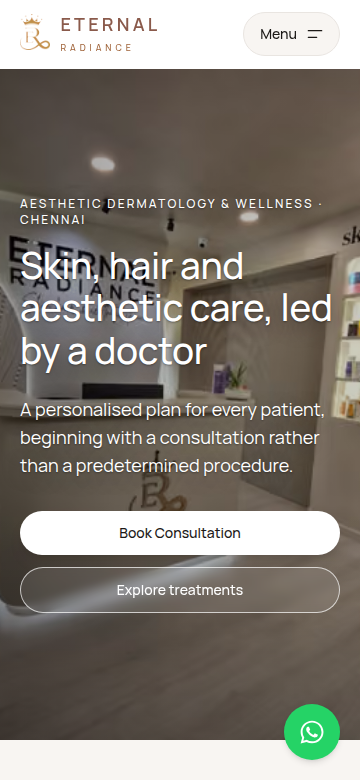
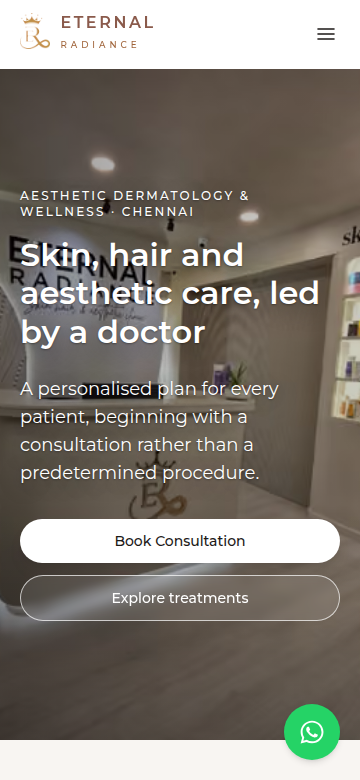
Match brand font (Montserrat), fix word spacing; clean white mobile menu
Claude-Session: https://claude.ai/code/session_01G1VHGhVw9CxkDhhvcLwAUR

diff --git a/components/Header.tsx b/components/Header.tsx
@@ -78,10 +78,9 @@ export default function Header({ phone, phoneTel, categories, showPhone, hideHre
         <div className="flex shrink-0 items-center gap-3">
           {showPhone && <a href={`tel:${phoneTel}`} className="hidden text-sm text-ink hover:text-primary xl:block"><span className="text-muted">Call us at </span>{phone}</a>}
           <Link href="/community" className="btn btn-primary hidden !min-h-[2.5rem] !px-5 sm:inline-flex">Join Community</Link>
-          <button ref={btn} onClick={() => setOpen(true)} aria-expanded={open} aria-controls="site-menu"
-            className="inline-flex h-11 items-center gap-2 rounded-full border border-line bg-surface pl-4 pr-3.5 text-sm font-medium text-ink transition-colors hover:border-ink lg:hidden">
-            <span className="max-[339px]:sr-only">Menu</span>
-            <svg viewBox="0 0 24 24" className="h-5 w-5" fill="none" stroke="currentColor" strokeWidth="1.6" strokeLinecap="round" aria-hidden><path d="M4 8h16M4 16h10" /></svg>
+          <button ref={btn} onClick={() => setOpen(true)} aria-expanded={open} aria-controls="site-menu" aria-label="Open menu"
+            className="-mr-2 flex h-11 w-11 items-center justify-center text-ink lg:hidden">
+            <svg viewBox="0 0 24 24" className="h-6 w-6" fill="none" stroke="currentColor" strokeWidth="1.6" strokeLinecap="round" aria-hidden><path d="M4 7h16M4 12h16M4 17h16" /></svg>
           </button>
         </div>
       </div>
@@ -89,34 +88,33 @@ export default function Header({ phone, phoneTel, categories, showPhone, hideHre
 
     {/* Rendered outside <header>: its backdrop-blur would otherwise become the containing block for this fixed overlay. */}
     <div id="site-menu" role="dialog" aria-modal="true" aria-label="Site menu" aria-hidden={!open}
-        className={`fixed inset-0 z-50 overflow-y-auto bg-paper transition-opacity duration-200 lg:hidden ${open ? "opacity-100" : "pointer-events-none opacity-0"}`}
-        {...(!open ? { inert: true } : {})}>
-        <div className="container-x flex h-[4.25rem] items-center justify-between gap-3">
-          <Wordmark />
-          <button onClick={() => { setOpen(false); btn.current?.focus(); }} className="inline-flex h-11 items-center gap-2 rounded-full border border-line bg-surface pl-4 pr-3.5 text-sm font-medium">
-            <span className="max-[339px]:sr-only">Close</span>
-            <svg viewBox="0 0 24 24" className="h-5 w-5" fill="none" stroke="currentColor" strokeWidth="1.6" strokeLinecap="round" aria-hidden><path d="M6 6l12 12M18 6L6 18" /></svg>
-          </button>
-        </div>
-        <nav aria-label="Mobile" className="container-x pb-12 pt-4">
-          <ul className="space-y-2">
-            {nav.map((n) => (
-              <li key={n.href}>
-                <Link href={n.href} className={`flex min-h-[3.25rem] items-center justify-between rounded-2xl px-5 text-lg ${isActive(n.href) ? "bg-ink text-white" : "bg-surface"}`}>{n.label}<span aria-hidden className="opacity-50">→</span></Link>
-                {"dropdown" in n && (
-                  <ul className="mt-2 flex flex-wrap gap-2 pl-2">
-                    {categories.map((c) => <li key={c.slug}><Link href={`/treatments#${c.slug}`} className="chip">{c.title}</Link></li>)}
-                  </ul>
-                )}
-              </li>
-            ))}
-          </ul>
-          <div className="mt-8 flex flex-col gap-3">
-            <Link href="/community" className="btn btn-primary">Join Community</Link>
-            {showPhone && <a href={`tel:${phoneTel}`} className="btn btn-ghost">Call {phone}</a>}
-          </div>
-        </nav>
+      className={`fixed inset-0 z-50 overflow-y-auto bg-white transition-opacity duration-200 lg:hidden ${open ? "opacity-100" : "pointer-events-none opacity-0"}`}
+      {...(!open ? { inert: true } : {})}>
+      <div className="container-x flex h-[4.25rem] items-center justify-between gap-3">
+        <Wordmark />
+        <button onClick={() => { setOpen(false); btn.current?.focus(); }} aria-label="Close menu" className="-mr-2 flex h-11 w-11 items-center justify-center text-ink">
+          <svg viewBox="0 0 24 24" className="h-6 w-6" fill="none" stroke="currentColor" strokeWidth="1.6" strokeLinecap="round" aria-hidden><path d="M6 6l12 12M18 6L6 18" /></svg>
+        </button>
       </div>
+      <nav aria-label="Mobile" className="container-x pb-12 pt-2">
+        <ul className="divide-y divide-line border-y border-line">
+          {nav.map((n) => (
+            <li key={n.href}>
+              <Link href={n.href} aria-current={isActive(n.href) ? "page" : undefined} className={`flex min-h-[3.5rem] items-center text-lg ${isActive(n.href) ? "font-medium text-primary" : "text-ink"}`}>{n.label}</Link>
+              {"dropdown" in n && (
+                <ul className="-mt-1 mb-3 space-y-0.5 border-l border-line pl-4">
+                  {categories.map((c) => <li key={c.slug}><Link href={`/treatments#${c.slug}`} className="block py-2 text-base text-muted hover:text-ink">{c.title}</Link></li>)}
+                </ul>
+              )}
+            </li>
+          ))}
+        </ul>
+        <div className="mt-8 flex flex-col gap-3">
+          <Link href="/community" className="btn btn-primary">Join Community</Link>
+          {showPhone && <a href={`tel:${phoneTel}`} className="btn btn-ghost">Call {phone}</a>}
+        </div>
+      </nav>
+    </div>
     </>
   );
 }

diff --git a/app/page.tsx b/app/page.tsx
@@ -25,7 +25,7 @@ export default function HomePage() {
         <div className="absolute inset-x-0 bottom-0 -z-10 h-1/3 bg-gradient-to-t from-black/30 to-transparent" aria-hidden />
         <div className="container-x flex min-h-[clamp(32rem,86vh,50rem)] flex-col justify-center py-24 text-white [text-shadow:0_1px_2px_rgba(0,0,0,.35),0_4px_24px_rgba(0,0,0,.45)]">
           {brand.hero.eyebrow && <p className="eyebrow !text-white">{brand.hero.eyebrow}</p>}
-          <h1 className="mt-4 max-w-2xl text-[clamp(2.3rem,5.4vw,4.4rem)] !text-white">{brand.hero.headline ?? brand.tagline}</h1>
+          <h1 className="mt-4 max-w-2xl text-[clamp(2rem,4.6vw,3.8rem)] font-semibold !text-white">{brand.hero.headline ?? brand.tagline}</h1>
           <p className="mt-6 max-w-lg text-lg text-white">{brand.hero.text ?? brand.intro.text[0]}</p>
           <div className="mt-8 flex flex-col gap-3 [text-shadow:none] sm:flex-row">
             <a href={whatsappLink(defaultWhatsappMessage)} target="_blank" rel="noopener noreferrer" className="btn bg-white text-ink shadow-lg hover:bg-surface">{brand.hero.cta}</a>

diff --git a/components/Wordmark.tsx b/components/Wordmark.tsx
@@ -9,7 +9,7 @@ export default function Wordmark({ className, light }: { className?: string; lig
     <span className={cn("inline-flex items-center gap-2.5 min-[400px]:gap-3", light ? "text-white" : "text-primary", className)}>
       {mark && <Image src={mark.src} alt="" width={mark.width} height={mark.height} priority className="h-9 w-auto min-[400px]:h-11 sm:h-12" />}
       <span className="inline-flex flex-col items-start leading-none">
-        <span className="font-display text-lg font-semibold tracking-[0.18em] min-[400px]:text-xl min-[400px]:tracking-[0.2em] sm:text-2xl">{line1}</span>
+        <span className="font-display text-base font-semibold tracking-[0.16em] min-[400px]:text-lg min-[400px]:tracking-[0.18em] sm:text-xl">{line1}</span>
         {line2 && <span className={cn("mt-1.5 text-[0.55rem] font-medium uppercase tracking-[0.45em] min-[400px]:text-[0.62rem] min-[400px]:tracking-[0.5em]", light ? "text-white/70" : "text-accent")}>{line2}</span>}
       </span>
     </span>

diff --git a/lib/fonts.ts b/lib/fonts.ts
@@ -5,6 +5,7 @@ import {
   Manrope,
   Playfair_Display,
   Inter,
+  Montserrat,
 } from "next/font/google";
 import type { FontKey } from "@/brands/types";
 import { brand } from "./brand";
@@ -18,8 +19,10 @@ const manrope = Manrope({ subsets: ["latin"], weight: ["200", "300", "400", "500
 const playfair = Playfair_Display({ subsets: ["latin"], weight: ["400", "500"], display: "swap" });
 const inter = Inter({ subsets: ["latin"], weight: ["300", "400", "500"], display: "swap" });
 
+const montserrat = Montserrat({ subsets: ["latin"], weight: ["300", "400", "500", "600"], display: "swap" });
+
 const map: Record<FontKey, { className: string; style: { fontFamily: string } }> = {
-  cormorant, jost, marcellus, manrope, playfair, inter,
+  cormorant, jost, marcellus, manrope, playfair, inter, montserrat,
 };
 
 export const displayFont = map[brand.fonts.display];

diff --git a/app/globals.css b/app/globals.css
@@ -5,7 +5,7 @@
 @layer base {
   html { scroll-behavior: smooth; -webkit-text-size-adjust: 100%; }
   body { @apply bg-paper text-ink font-sans antialiased; font-size: 1rem; line-height: 1.7; }
-  h1, h2, h3, h4 { @apply font-display font-medium text-ink; line-height: 1.15; letter-spacing: -0.01em; }
+  h1, h2, h3, h4 { @apply font-display font-medium text-ink; line-height: 1.2; letter-spacing: 0; }
   :focus-visible { outline: 2px solid rgb(var(--c-primary)); outline-offset: 3px; border-radius: 6px; }
   ::selection { background: rgb(var(--c-accent) / 0.25); }
 }

diff --git a/brands/eternal-radiance.ts b/brands/eternal-radiance.ts
@@ -280,7 +280,7 @@ const brand: BrandConfig = {
     muted: "#7A6A64",
     line: "#E9E5E1",
   },
-  fonts: { display: "manrope", body: "manrope" },
+  fonts: { display: "montserrat", body: "montserrat" },
   siteUrl: "https://eternalradiance.in",
   phone: "+91 00000 00000", // PLACEHOLDER: not on the home page; take from the Contact Us page / Google listing
   phoneTel: "+910000000000", // PLACEHOLDER

diff --git a/brands/types.ts b/brands/types.ts
@@ -10,7 +10,8 @@ export type FontKey =
   | "marcellus"
   | "manrope"
   | "playfair"
-  | "inter";
+  | "inter"
+  | "montserrat";
 
 export interface Palette {
   /** Main brand colour: wordmark, headings accents, primary buttons. Hex. */
